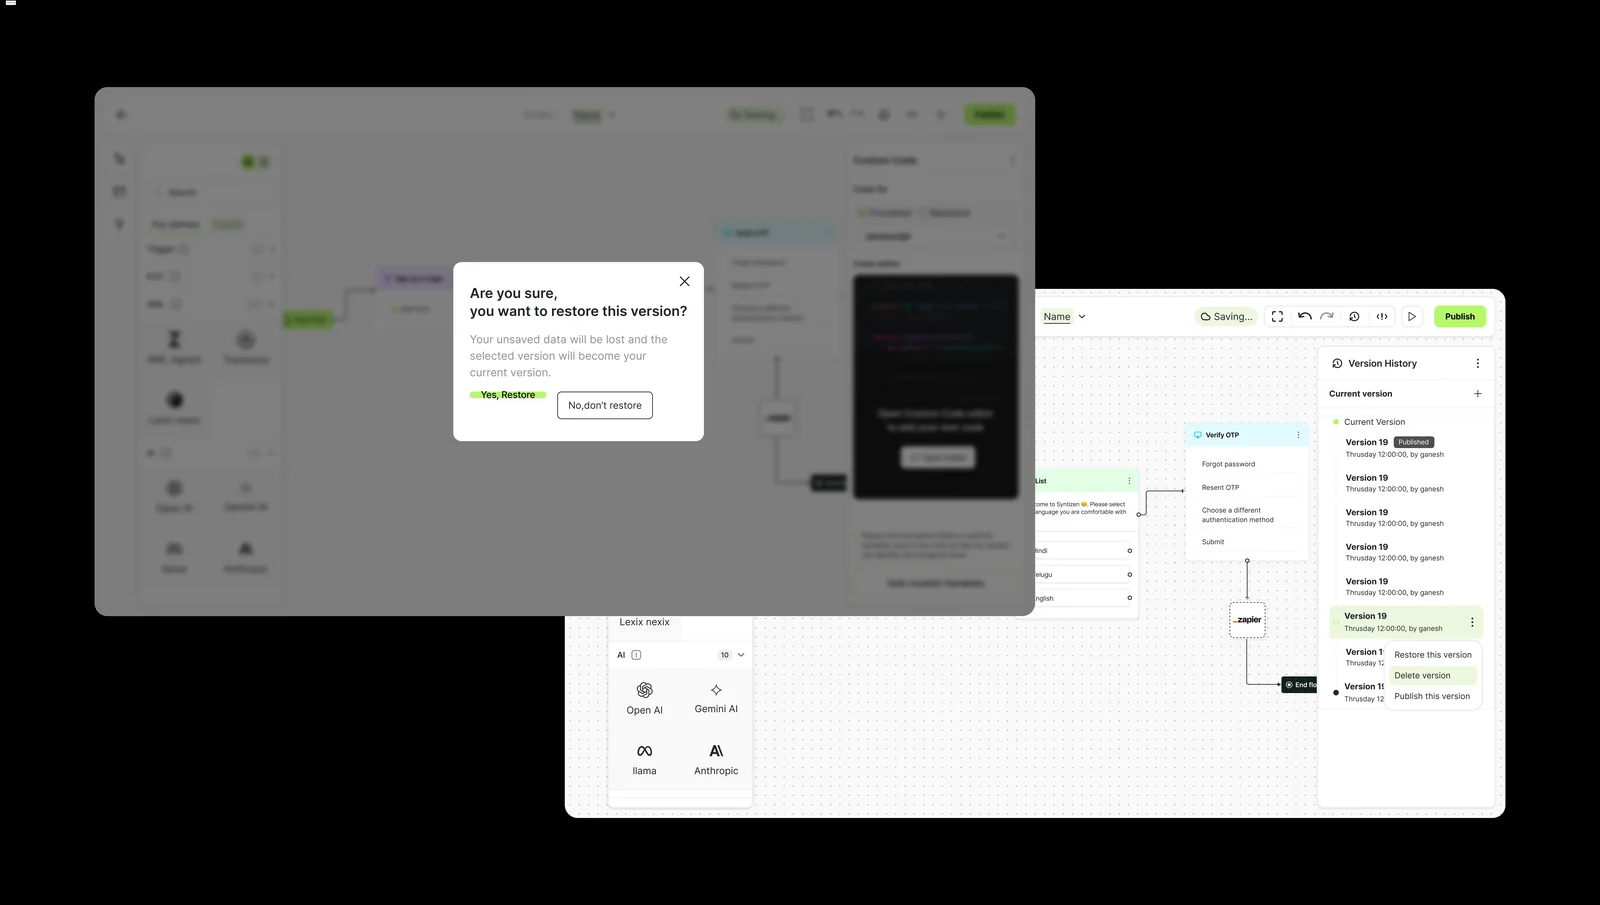
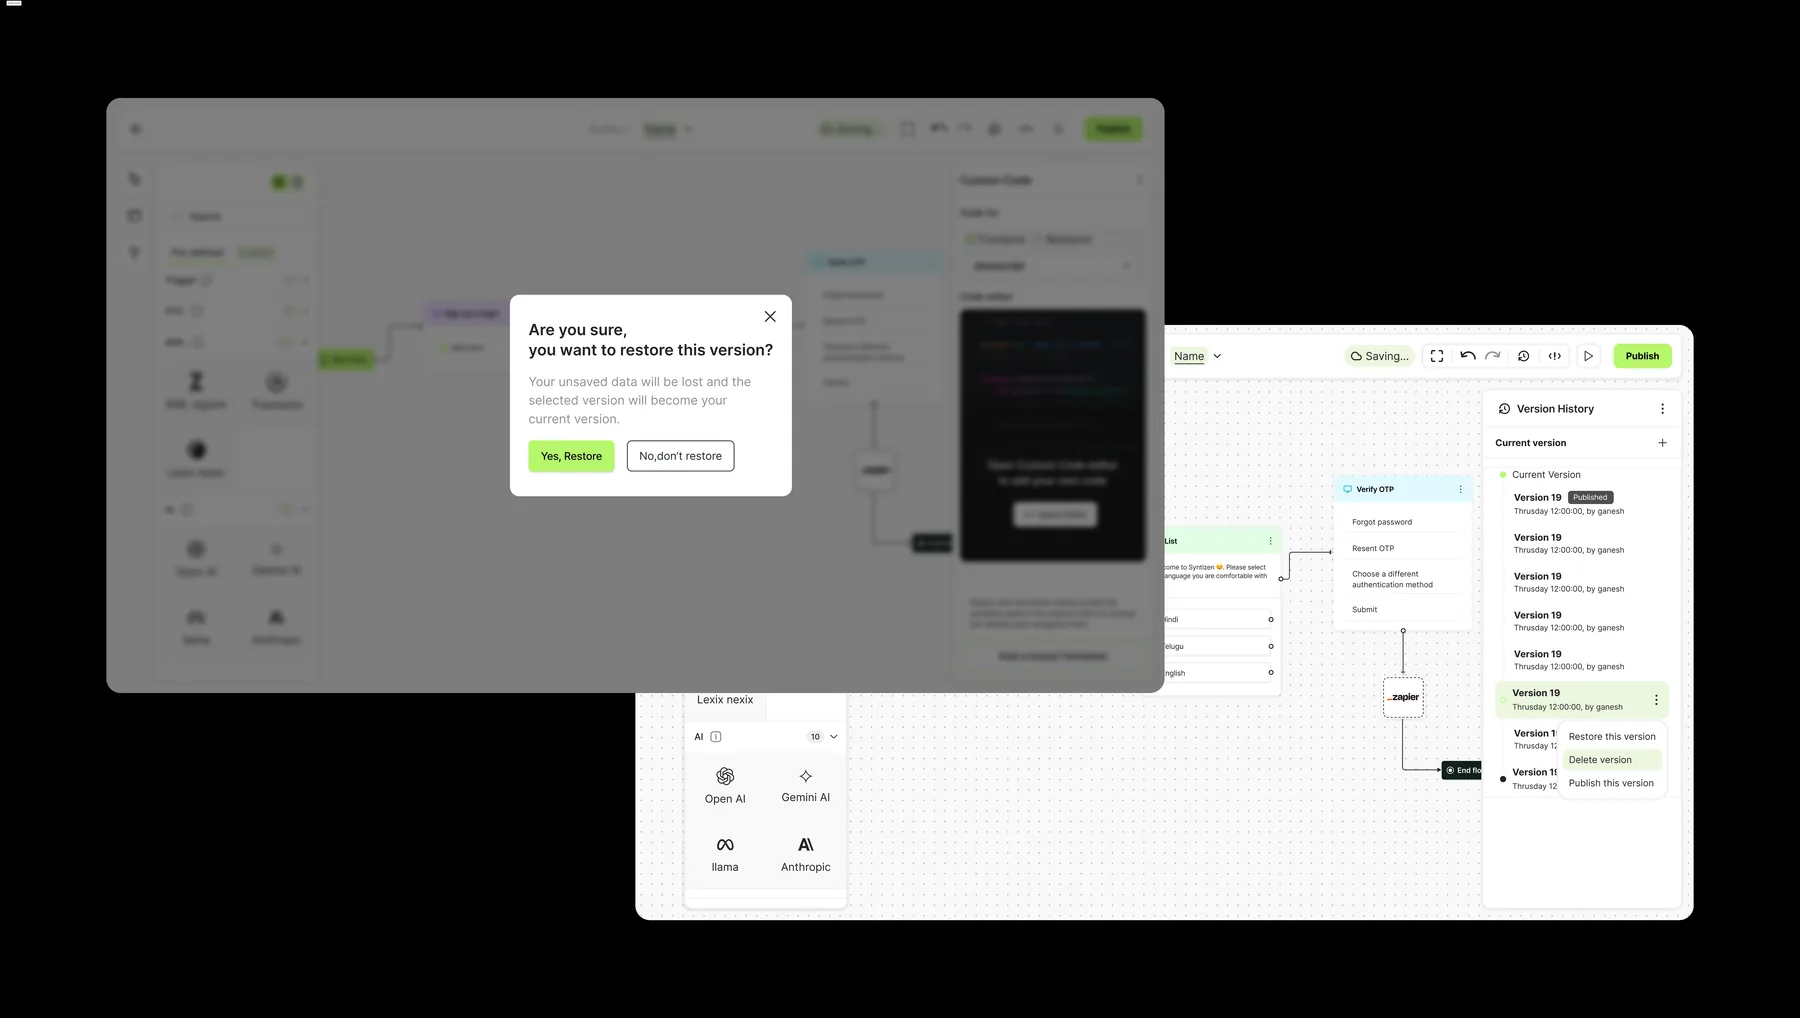
Fill in Card sort and Validation panel with real screenshots
Two placeholders never had a real match from the earlier Figma search.
Adds real images for both (an actual card-sorting exercise photo, and
the real validation/error panel UI) plus refreshes Product screenshot,
Custom API node, and Version history with cleaner exports of the same
screens. All used uncropped, resized to 1800px wide and compressed to
WebP. Updates both pages' gallery lists to include the two new images
in their correct scroll order.

diff --git a/src/app/platform-evolution/page.tsx b/src/app/platform-evolution/page.tsx
@@ -3,10 +3,12 @@ import { Reveal } from "@/components/reveal";
 import { GalleryProvider, type GalleryImageEntry } from "@/components/gallery-lightbox";
 
 const GALLERY_IMAGES: GalleryImageEntry[] = [
-  { src: "/images/platform-evolution/hero-builder-canvas.png", alt: "Product screenshot", aspect: "1366/768" },
+  { src: "/images/platform-evolution/hero-builder-canvas.webp", alt: "Product screenshot", aspect: "1800/1043" },
+  { src: "/images/platform-evolution/card-sort.webp", alt: "Card sort", aspect: "1800/1018" },
   { src: "/images/platform-evolution/node-config-panel.png", alt: "Node + config panel", aspect: "1366/768" },
-  { src: "/images/platform-evolution/custom-api-node.png", alt: "Custom API node", aspect: "1366/768" },
-  { src: "/images/platform-evolution/version-history.webp", alt: "Version history", aspect: "1600/905" },
+  { src: "/images/platform-evolution/custom-api-node.webp", alt: "Custom API node", aspect: "1800/1018" },
+  { src: "/images/platform-evolution/version-history.webp", alt: "Version history", aspect: "1800/1018" },
+  { src: "/images/platform-evolution/validation-panel.webp", alt: "Validation panel", aspect: "1800/1018" },
   { src: "/images/platform-evolution/maker-checker.png", alt: "Maker-checker", aspect: "1366/768" },
   { src: "/images/platform-evolution/case-management.png", alt: "Case management", aspect: "1366/768" },
   { src: "/images/platform-evolution/reporting.png", alt: "Reporting", aspect: "1366/768" },
@@ -78,11 +80,11 @@ export default function PlatformEvolutionPage() {
         </div>
         <div className="relative z-10 mx-auto w-full max-w-6xl px-6 pb-24 sm:px-8 sm:pb-28 lg:px-10 lg:pb-32">
           <ImagePlaceholder
-            aspect="1366/768"
+            aspect="1800/1043"
             label="Product screenshot"
             note="The composition layer — services on the left, flow on the canvas, configuration on the right."
             delay={0.28}
-            src="/images/platform-evolution/hero-builder-canvas.png"
+            src="/images/platform-evolution/hero-builder-canvas.webp"
           />
         </div>
       </section>
@@ -220,10 +222,11 @@ export default function PlatformEvolutionPage() {
 
           <div className="mt-10 grid grid-cols-1 gap-4 sm:grid-cols-2">
             <ImagePlaceholder
-              aspect="4/3"
+              aspect="1800/1018"
               label="Card sort"
               note="Sort board or clustered results."
               delay={0.3}
+              src="/images/platform-evolution/card-sort.webp"
             />
             <ImagePlaceholder
               aspect="1366/768"
@@ -258,14 +261,14 @@ export default function PlatformEvolutionPage() {
 
           <div className="mt-4 grid grid-cols-1 gap-4 sm:grid-cols-2">
             <ImagePlaceholder
-              aspect="1366/768"
+              aspect="1800/1018"
               label="Custom API node"
               note="Code editor, frontend/backend toggle, variables."
               delay={0.06}
-              src="/images/platform-evolution/custom-api-node.png"
+              src="/images/platform-evolution/custom-api-node.webp"
             />
             <ImagePlaceholder
-              aspect="1600/905"
+              aspect="1800/1018"
               label="Version history"
               note="Published and draft tracks, with author and timestamp on every version."
               delay={0.1}
@@ -405,10 +408,11 @@ export default function PlatformEvolutionPage() {
 
           <div className="mt-10">
             <ImagePlaceholder
-              aspect="21/9"
+              aspect="1800/1018"
               label="Validation panel"
               note="Error taxonomy, plain-English codes, failing node highlighted, re-validate."
               delay={0.2}
+              src="/images/platform-evolution/validation-panel.webp"
             />
           </div>
 

diff --git a/src/app/platform-evolution/reimagined/page.tsx b/src/app/platform-evolution/reimagined/page.tsx
@@ -15,9 +15,11 @@ import { WhereItBrokeDark } from "./_components/where-it-broke-dark";
 import { GalleryProvider, type GalleryImageEntry } from "@/components/gallery-lightbox";
 
 const GALLERY_IMAGES: GalleryImageEntry[] = [
+  { src: "/images/platform-evolution/card-sort.webp", alt: "Card sort", aspect: "1800/1018" },
   { src: "/images/platform-evolution/node-config-panel.png", alt: "Node + config panel", aspect: "1366/768" },
-  { src: "/images/platform-evolution/custom-api-node.png", alt: "Custom API node", aspect: "1366/768" },
-  { src: "/images/platform-evolution/version-history.webp", alt: "Version history", aspect: "1600/905" },
+  { src: "/images/platform-evolution/custom-api-node.webp", alt: "Custom API node", aspect: "1800/1018" },
+  { src: "/images/platform-evolution/version-history.webp", alt: "Version history", aspect: "1800/1018" },
+  { src: "/images/platform-evolution/validation-panel.webp", alt: "Validation panel", aspect: "1800/1018" },
   { src: "/images/platform-evolution/maker-checker.png", alt: "Maker-checker", aspect: "1366/768" },
   { src: "/images/platform-evolution/case-management.png", alt: "Case management", aspect: "1366/768" },
   { src: "/images/platform-evolution/reporting.png", alt: "Reporting", aspect: "1366/768" },
@@ -409,9 +411,10 @@ export default function ReimaginedPage() {
 
           <div className="mt-8 grid grid-cols-1 gap-4 sm:grid-cols-2">
             <TerminalPlaceholder
-              aspect="4/3"
+              aspect="1800/1018"
               label="Card sort"
               note="Sort board or clustered results."
+              src="/images/platform-evolution/card-sort.webp"
             />
             <TerminalPlaceholder
               aspect="1366/768"
@@ -437,13 +440,13 @@ export default function ReimaginedPage() {
           </div>
           <div className="mt-4 grid grid-cols-1 gap-4 sm:grid-cols-2">
             <TerminalPlaceholder
-              aspect="1366/768"
+              aspect="1800/1018"
               label="Custom API node"
               note="Code editor, frontend/backend toggle, variables."
-              src="/images/platform-evolution/custom-api-node.png"
+              src="/images/platform-evolution/custom-api-node.webp"
             />
             <TerminalPlaceholder
-              aspect="1600/905"
+              aspect="1800/1018"
               label="Version history"
               note="Published and draft tracks, author and timestamp."
               src="/images/platform-evolution/version-history.webp"
@@ -473,9 +476,10 @@ export default function ReimaginedPage() {
 
           <div className="mt-6">
             <TerminalPlaceholder
-              aspect="21/9"
+              aspect="1800/1018"
               label="Validation panel"
               note="Error taxonomy, plain-English codes, failing node highlighted, re-validate."
+              src="/images/platform-evolution/validation-panel.webp"
             />
           </div>
         </div>
